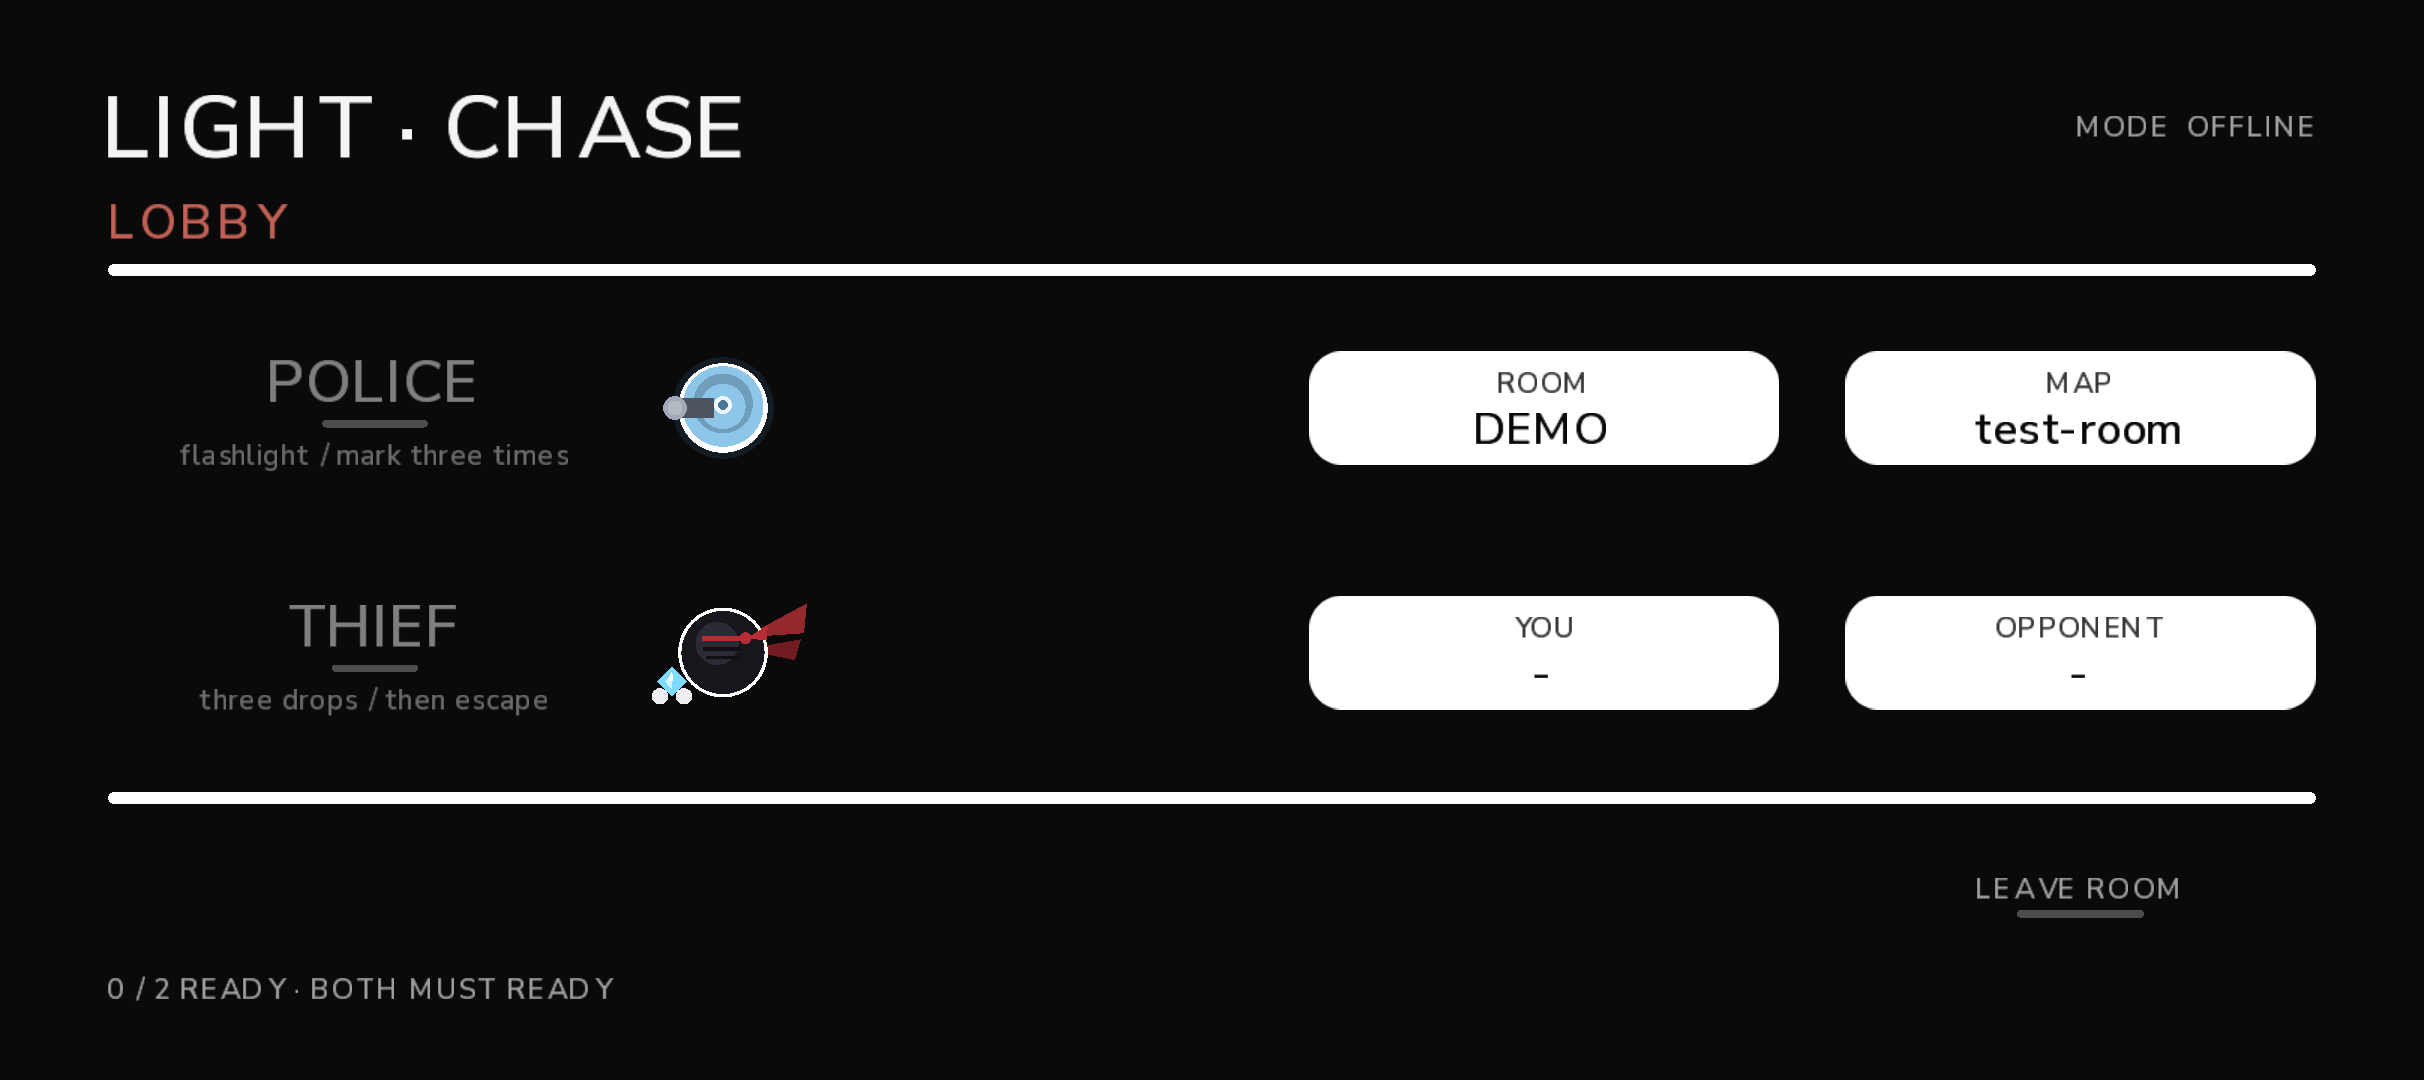
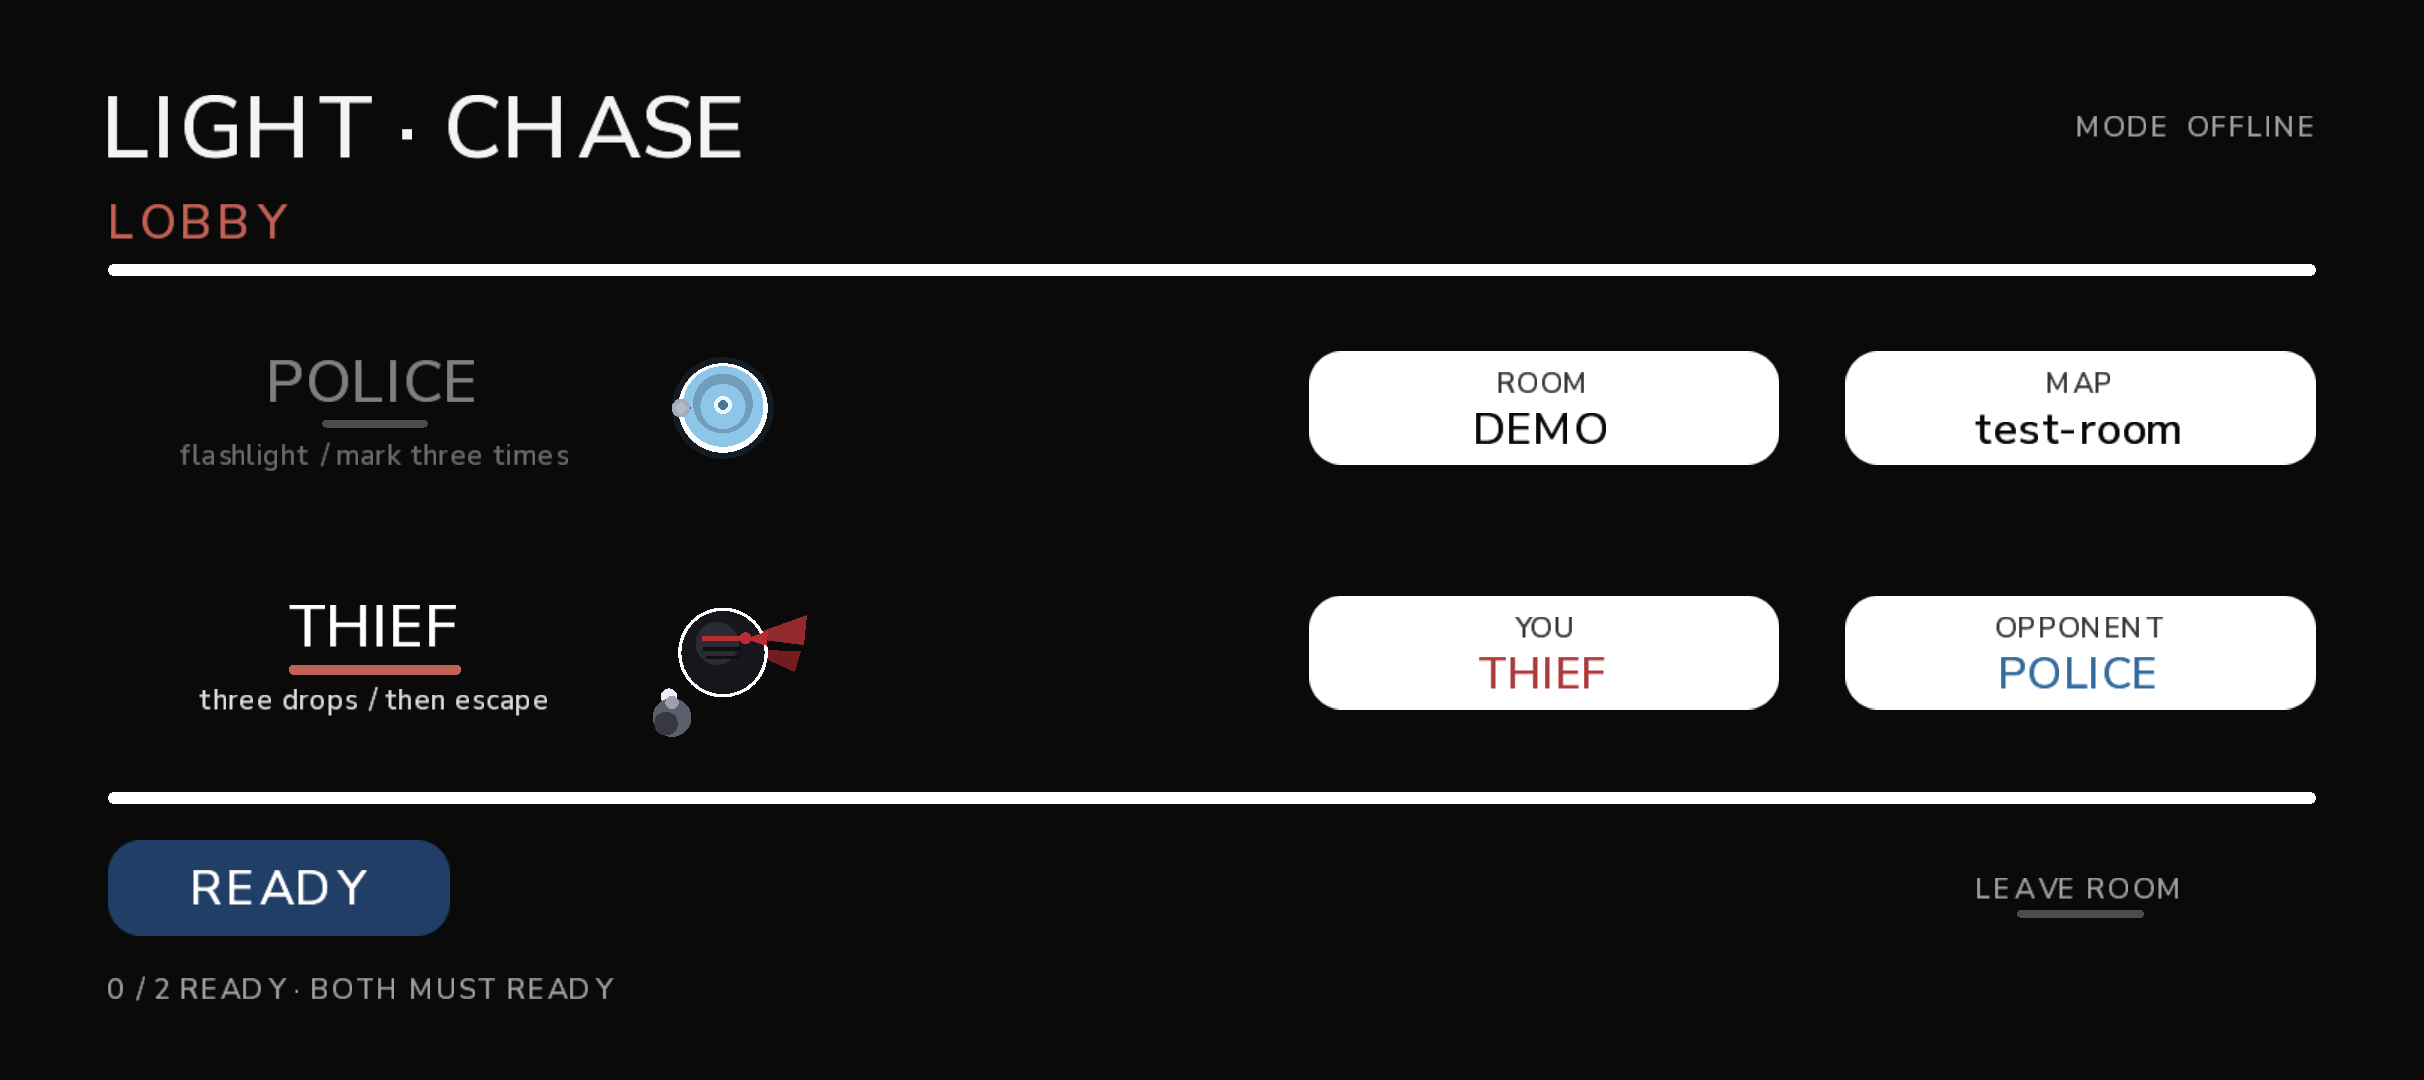
ui: police lamp back to the small rounded protrusion

diff --git a/client-core/src/main/java/com/lightchase/client/LightChaseApp.java b/client-core/src/main/java/com/lightchase/client/LightChaseApp.java
@@ -1364,8 +1364,8 @@ public final class LightChaseApp extends ApplicationAdapter {
 
         float c = (float) Math.cos(angle);
         float s = (float) Math.sin(angle);
-        float lx = cx + c * (ICON_R + 2f);
-        float ly = cy + s * (ICON_R + 2f);
+        float lx = cx + c * (ICON_R - 2f);
+        float ly = cy + s * (ICON_R - 2f);
 
         // The idle cone, unchanged: 120 long, 45% at the lens, gone at the far end.
         if (beamOn > 0.01f) {
@@ -1386,16 +1386,17 @@ public final class LightChaseApp extends ApplicationAdapter {
 
         policeCap(shapes, cx, cy, angle);
 
-        // The old lamp: short barrel, one lens, one hot centre - drawn after the rim so it overlaps
-        // it, the way the thief's scarf overlaps its hood.
-        float bx = cx + c * 6f;
-        float by = cy + s * 6f;
+        // The lamp is the small rounded protrusion: a short neck with a round joint at its root,
+        // one lens, one hot centre. Drawn after the rim so it simply overlaps it.
+        float nx = cx + c * (ICON_R - 5f);
+        float ny = cy + s * (ICON_R - 5f);
         shapes.setColor(0.30f, 0.33f, 0.38f, 1f);
-        shapes.rectLine(bx, by, lx, ly, 13f);
+        shapes.rectLine(nx, ny, lx, ly, 7f);
+        shapes.circle(nx, ny, 3.5f, 16);
         shapes.setColor(0.64f, 0.67f, 0.72f, 1f);
-        shapes.circle(lx, ly, 8f, 18);
-        shapes.setColor(1f, 1f, 0.96f, 0.20f + 0.80f * beamOn);
-        shapes.circle(lx, ly, 5f, 16);
+        shapes.circle(lx, ly, 6.2f, 20);
+        shapes.setColor(1f, 1f, 0.96f, 0.18f + 0.82f * beamOn);
+        shapes.circle(lx, ly, 3.8f, 16);
     }
 
     /** The beam: bright at the lens, fading out along its length, tapering to a soft end. */
